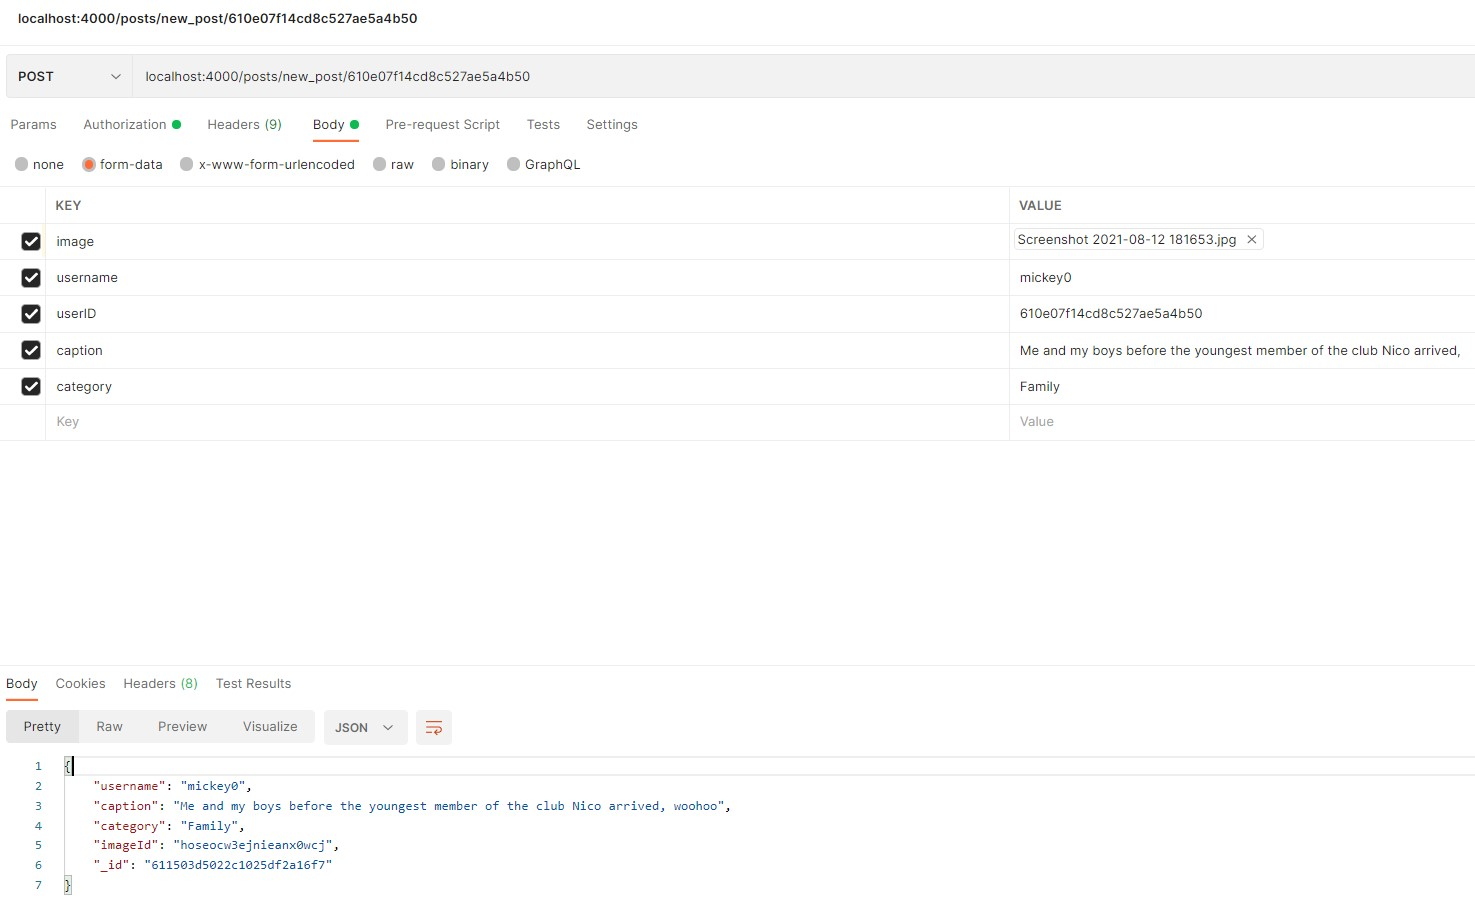
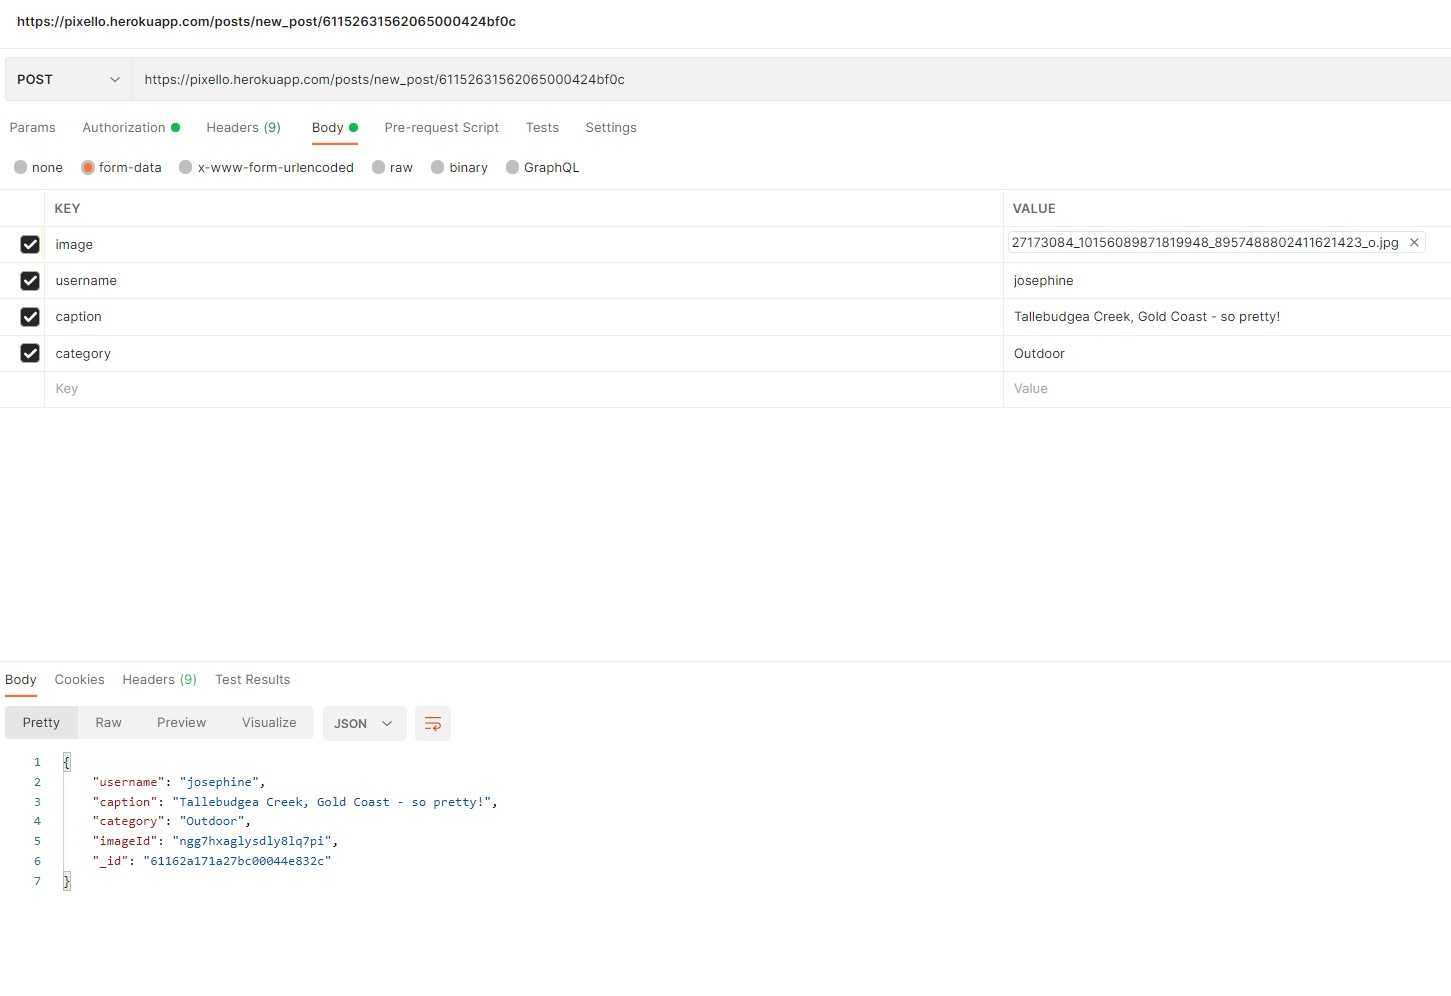
further readme updates

diff --git a/README.md b/README.md
@@ -216,7 +216,7 @@ The below is a typical example of our Trello Card
 
 HTTP Request: **POST**
 
-URL: localhost:4000/auth/sign_up
+URL: https://pixello.herokuapp.com/auth/sign_up
 
 Notes: With a Json Web Token (JWT) as authentication, a profile is created in the database and the image is stored in Cloudinary, the cloud storage solution. As confirmation for a successful sign-up, a JWT is returned along with the Username and User ID.
 
@@ -229,7 +229,7 @@ Notes: With a Json Web Token (JWT) as authentication, a profile is created in th
 
 HTTP Request: **POST**
 
-URL: localhost:4000/auth/sign_up
+URL: https://pixello.herokuapp.com/auth/sign_up
 
 Notes: Upon signing in a Json Web Token (JWT) is returned along with the Username and User ID.
 
@@ -237,7 +237,7 @@ JSON Format:
 
 ```json
 {
-    "username": "mickey0",
+    "username": "josephine",
     "password": "abc12345"
 }
 ```
@@ -251,7 +251,7 @@ JSON Format:
 
 HTTP Request: **GET**
 
-URL: localhost:4000/auth/sign_out
+URL: https://pixello.herokuapp.com/auth/sign_out
 
 Notes: Upon signing out an empty array is returned to reflect a destroyed user session for the succesful sign out.
 
@@ -267,7 +267,7 @@ Notes: Upon signing out an empty array is returned to reflect a destroyed user s
 
 HTTP Request: **GET**
 
-URL: localhost:4000/users/610e07f14cd8c527ae5a4b50
+URL: https://pixello.herokuapp.com/users/610e07f14cd8c527ae5a4b50
 
 *the ID used in the URL is the ID of the document within the database*
 
@@ -282,7 +282,7 @@ Notes: With a Json Web Token (JWT) as authentication, a profile is retrieved fro
 
 HTTP Request: **GET**
 
-URL: localhost:4000/users/user_label/610e018e4cd8c527ae5a4b3b
+URL: https://pixello.herokuapp.com/users/user_label/610e018e4cd8c527ae5a4b3b
 
 *the ID used in the URL is the ID of the document within the database*
 
@@ -297,7 +297,7 @@ Notes: With a Json Web Token (JWT) as authentication, a profile is retrieved (ba
 
 HTTP Request: **PUT**
 
-URL: localhost:4000/users/610deeb7af330020b19d6219
+URL: https://pixello.herokuapp.com/users/610deeb7af330020b19d6219
 
 *the ID used in the URL is the ID of the document within the database*
 
@@ -312,7 +312,7 @@ Notes: With a Json Web Token (JWT) as authentication, a profile is update from t
 
 HTTP Request: **DELETE**
 
-URL: localhost:4000/users/6114eb20d888927974a444f4
+URL: https://pixello.herokuapp.com/users/611626511a27bc00044e82da
 
 *the ID used in the URL is the ID of the document within the database*
 
@@ -330,7 +330,7 @@ Notes: With a Json Web Token (JWT) as authentication, a profile is deleted from 
 
 HTTP Request: **POST**
 
-URL: localhost:4000/posts/new_post/610e07f14cd8c527ae5a4b50
+URL: https://pixello.herokuapp.com/posts/new_post/61152631562065000424bf0c
 
 *the ID used in the URL is the ID of the User that exists in the User database*
 
@@ -345,7 +345,7 @@ Notes: With a Json Web Token (JWT) as authentication, a post is created in the d
 
 HTTP Request: **GET**
 
-URL: localhost:4000/posts/
+URL: https://pixello.herokuapp.com/posts/
 
 Notes: With a Json Web Token (JWT) as authentication, all posts are retrieved from the database and the image is retrieved from Cloudinary, the cloud storage solution. 
 
@@ -358,7 +358,7 @@ Notes: With a Json Web Token (JWT) as authentication, all posts are retrieved fr
 
 HTTP Request: **GET**
 
-URL: localhost:4000/posts/user_posts
+URL: https://pixello.herokuapp.com/posts/user_posts
 
 Notes: With a Json Web Token (JWT) as authentication, posts of a user are retrieved from the database and the image is retrieved from Cloudinary, the cloud storage solution. 
 
@@ -371,7 +371,7 @@ Notes: With a Json Web Token (JWT) as authentication, posts of a user are retrie
 
 HTTP Request: **GET**
 
-URL: localhost:4000/posts/610e03644cd8c527ae5a4b40
+URL: https://pixello.herokuapp.com/posts/61152868562065000424bf6a
 
 *the ID used in the URL is the ID of the document within the database*
 
@@ -386,7 +386,7 @@ Notes: With a Json Web Token (JWT) as authentication, a posts is retrieved from 
 
 HTTP Request: **PUT**
 
-URL: localhost:4000/posts/610df8bd4cd8c527ae5a4b35
+URL: https://pixello.herokuapp.com/posts/61162a171a27bc00044e832c
 
 *the ID used in the URL is the ID of the document within the database*
 
@@ -401,7 +401,7 @@ Notes: With a Json Web Token (JWT) as authentication, a post is updated in the d
 
 HTTP Request: **PUT**
 
-URL: localhost:4000/posts/update_likes/610e03184cd8c527ae5a4b3e
+URL: https://pixello.herokuapp.com/posts/update_likes/61152868562065000424bf6a
 
 *the ID used in the URL is the ID of the document within the database*
 
@@ -416,7 +416,7 @@ Notes: With a Json Web Token (JWT) as authentication, a post is updated in the d
 
 HTTP Request: **DELETE**
 
-URL: localhost:4000/posts/610e03c44cd8c527ae5a4b42
+URL: https://pixello.herokuapp.com/posts/61152631562065000424bf0c
 
 *the ID used in the URL is the ID of the document within the database*
 
@@ -434,11 +434,20 @@ Notes: With a Json Web Token (JWT) as authentication, a post is deleted from the
 
 HTTP Request: **POST**
 
-URL: localhost:4000/comments/new_comment/61150b9df8b32a2c8dd59232
+URL: https://pixello.herokuapp.com/comments/new_comment/61152caa562065000424bfd3
 
 *the ID used in the URL is the ID of the Post that exists in the Post database*
 
 Notes: With a Json Web Token (JWT) as authentication, a post is created in the database and the image is stored in Cloudinary, the cloud storage solution.
+
+JSON Format:
+
+```json
+{
+    "comment": "Fooood!",
+    "username": "josephine"
+}
+```
 
 ![Comment - Create Comment](/docs/images/comments_create_comment.jpg)
 
@@ -449,7 +458,7 @@ Notes: With a Json Web Token (JWT) as authentication, a post is created in the d
 
 HTTP Request: **GET**
 
-URL: localhost:4000/comments/get_comments
+URL: https://pixello.herokuapp.com/comments/get_comments
 
 Notes: With a Json Web Token (JWT) as authentication, a post is created in the database and the image is stored in Cloudinary, the cloud storage solution.
 
@@ -463,7 +472,7 @@ Notes: With a Json Web Token (JWT) as authentication, a post is created in the d
 
 HTTP Request: **DELETE**
 
-URL: localhost:4000/comments/61150d0d80d1f72d167021c1
+URL: https://pixello.herokuapp.com/comments/61162c891a27bc00044e83aa
 
 *the ID used in the URL is the ID of the document within the database*
 
